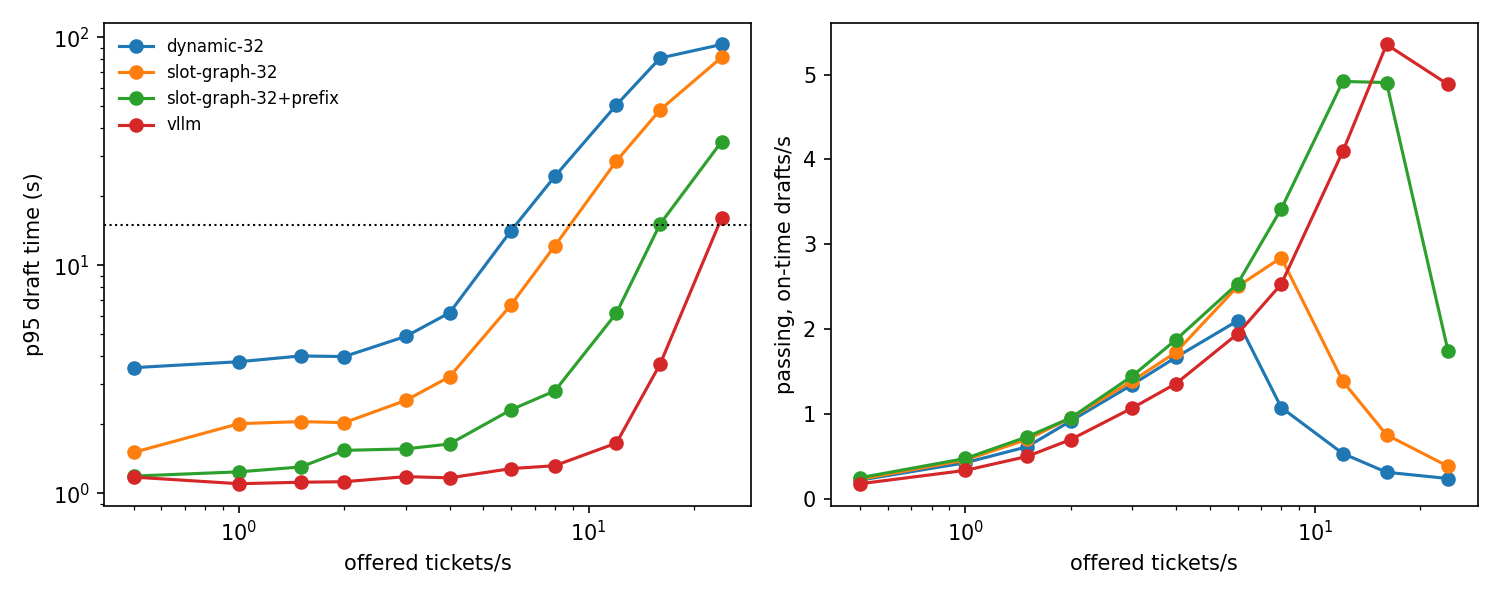
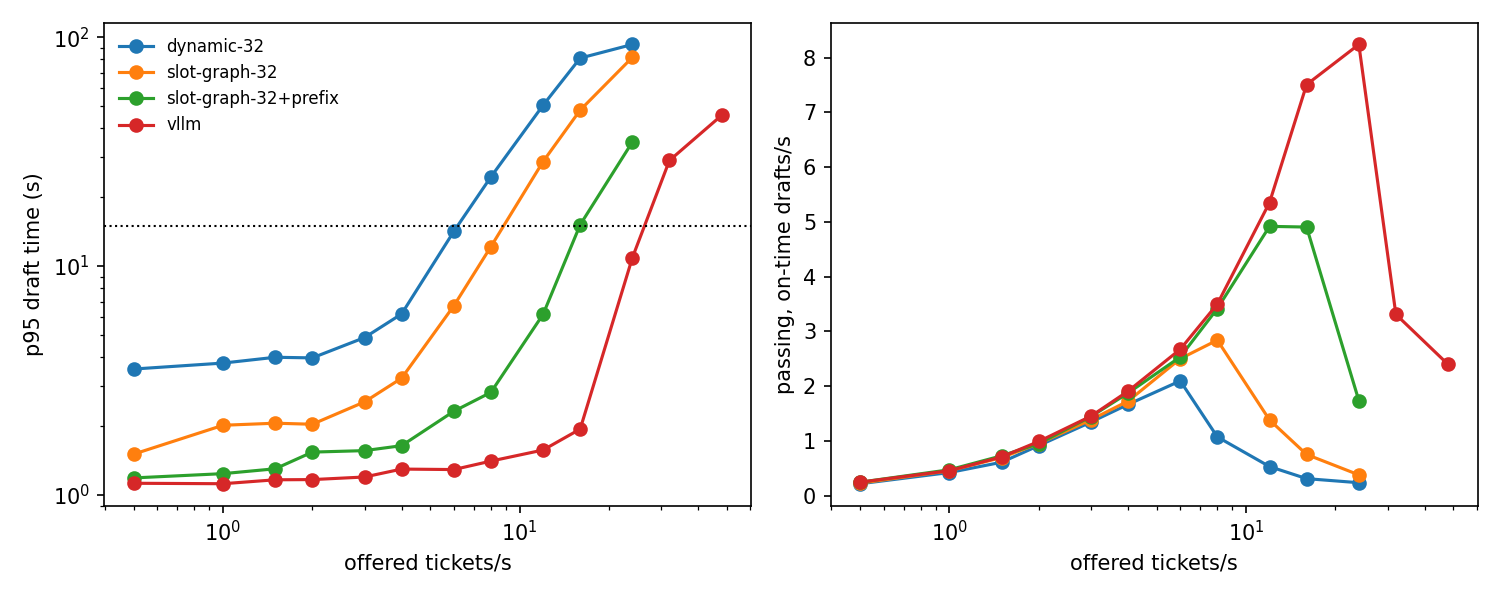
SupportDraft: final report with vLLM run 2 and 32/48 rates, archive run 1, document configurations

diff --git a/reports/SUPPORTDRAFT.md b/reports/SUPPORTDRAFT.md
@@ -20,16 +20,16 @@ Share of answerable tickets whose correct passage is among the top-k retrieved. 
 | dynamic-32 | 44% | 40% | 63% | 72% | 13% | 0% | 18% | 13% | 58% |
 | slot-graph-32 | 46% | 42% | 64% | 74% | 13% | 0% | 18% | 13% | 58% |
 | slot-graph-32+prefix | 49% | 47% | 67% | 77% | 10% | 0% | 17% | 13% | 58% |
-| vllm | 35% | 29% | 59% | 47% | 29% | 0% | 3% | 16% | 58% |
+| vllm | 49% | 47% | 66% | 78% | 10% | 0% | 18% | 11% | 58% |
 | baseline: always escalate | 21% | 0% | 0% | n/a | n/a | n/a | n/a | 100% | 100% |
 | baseline: quote top-1 passage (no LLM) | 81% | 96% | 96% | 96% | 0% | 0% | 96% | 0% | 25% |
 
-Measured at each backend's lowest offered rate. Greedy decoding makes quality nearly independent of load; the spread of the overall correct rate across offered rates was dynamic-32: 44%-45%, slot-graph-32: 44%-47%, slot-graph-32+prefix: 45%-49%, vllm: 33%-35%. The two baseline rows use no language model and are scored by the same checks: quoting the top retrieved passage already satisfies the rules on most answerable tickets, so the checks cannot separate a tailored reply from a copy-paste ('copied from passage' shows how much of each draft is verbatim source text). A language model adds value mainly through escalation recall and through answering the actual question, which these checks only partly capture. These are rule-based checks: they verify required facts, cited-source support, invented numbers, known-wrong values and escalation. They do not judge tone, completeness or subtle errors; use the human review sheet for that.
+Measured at each backend's lowest offered rate. Greedy decoding makes quality nearly independent of load; the spread of the overall correct rate across offered rates was dynamic-32: 44%-45%, slot-graph-32: 44%-47%, slot-graph-32+prefix: 45%-49%, vllm: 44%-49%. The two baseline rows use no language model and are scored by the same checks: quoting the top retrieved passage already satisfies the rules on most answerable tickets, so the checks cannot separate a tailored reply from a copy-paste ('copied from passage' shows how much of each draft is verbatim source text). A language model adds value mainly through escalation recall and through answering the actual question, which these checks only partly capture. These are rule-based checks: they verify required facts, cited-source support, invented numbers, known-wrong values and escalation. They do not judge tone, completeness or subtle errors; use the human review sheet for that.
 
 - `dynamic-32` outcomes: ok 25, missing_fact 14, bad_citation 7, over_escalated 6, missed_escalation 5
 - `slot-graph-32` outcomes: ok 26, missing_fact 13, bad_citation 7, over_escalated 6, missed_escalation 5
 - `slot-graph-32+prefix` outcomes: ok 28, missing_fact 12, bad_citation 6, over_escalated 6, missed_escalation 5
-- `vllm` outcomes: ok 20, missing_fact 15, bad_citation 10, over_escalated 7, missed_escalation 5
+- `vllm` outcomes: ok 28, missing_fact 13, bad_citation 6, over_escalated 5, missed_escalation 5
 
 Correct rate by ticket kind for `dynamic-32`: escalate 58% (n=12), hard 33% (n=30), terse 53% (n=15)
 
@@ -70,17 +70,19 @@ Correct rate by ticket kind for `dynamic-32`: escalate 58% (n=12), hard 33% (n=3
 | slot-graph-32+prefix | 12.00 | 399 | 0 | 2.25 | 6.16 | 100% | 46% | 4.92 |
 | slot-graph-32+prefix | 16.00 | 513 | 0 | 12.56 | 15.14 | 94% | 44% | 4.91 |
 | slot-graph-32+prefix | 24.00 | 741 | 0 | 32.51 | 34.83 | 32% | 15% | 1.74 |
-| vllm | 0.50 | 57 | 0 | 0.17 | 1.18 | 100% | 35% | 0.18 |
-| vllm | 1.00 | 57 | 0 | 0.06 | 1.10 | 100% | 33% | 0.33 |
-| vllm | 1.50 | 57 | 0 | 0.06 | 1.12 | 100% | 33% | 0.50 |
-| vllm | 2.00 | 114 | 0 | 0.06 | 1.12 | 100% | 33% | 0.70 |
-| vllm | 3.00 | 114 | 0 | 0.07 | 1.18 | 100% | 34% | 1.07 |
-| vllm | 4.00 | 171 | 0 | 0.07 | 1.17 | 100% | 33% | 1.36 |
-| vllm | 6.00 | 228 | 0 | 0.07 | 1.28 | 100% | 35% | 1.94 |
-| vllm | 8.00 | 285 | 0 | 0.08 | 1.32 | 100% | 34% | 2.53 |
-| vllm | 12.00 | 399 | 0 | 0.18 | 1.66 | 100% | 35% | 4.09 |
-| vllm | 16.00 | 513 | 0 | 2.49 | 3.68 | 100% | 35% | 5.36 |
-| vllm | 24.00 | 741 | 0 | 15.35 | 16.14 | 88% | 31% | 4.88 |
+| vllm | 0.50 | 57 | 0 | 0.14 | 1.13 | 100% | 49% | 0.25 |
+| vllm | 1.00 | 57 | 0 | 0.06 | 1.12 | 100% | 46% | 0.46 |
+| vllm | 1.50 | 57 | 0 | 0.06 | 1.17 | 100% | 47% | 0.71 |
+| vllm | 2.00 | 114 | 0 | 0.06 | 1.17 | 100% | 47% | 0.99 |
+| vllm | 3.00 | 114 | 0 | 0.07 | 1.20 | 100% | 46% | 1.45 |
+| vllm | 4.00 | 171 | 0 | 0.07 | 1.30 | 100% | 47% | 1.91 |
+| vllm | 6.00 | 228 | 0 | 0.08 | 1.29 | 100% | 47% | 2.67 |
+| vllm | 8.00 | 285 | 0 | 0.08 | 1.41 | 100% | 47% | 3.50 |
+| vllm | 12.00 | 399 | 0 | 0.10 | 1.57 | 100% | 46% | 5.35 |
+| vllm | 16.00 | 513 | 0 | 0.58 | 1.94 | 100% | 46% | 7.51 |
+| vllm | 24.00 | 741 | 0 | 10.10 | 10.88 | 100% | 46% | 8.24 |
+| vllm | 32.00 | 969 | 0 | 28.22 | 28.92 | 46% | 20% | 3.31 |
+| vllm | 48.00 | 1482 | 0 | 44.83 | 45.55 | 29% | 13% | 2.40 |
 
 ![supportdraft](figures/supportdraft.png)
 
@@ -93,7 +95,7 @@ ASSUMPTION: GPU price 0.35 USD/hour (set `results/processed/supportdraft_assumpt
 | dynamic-32 | 6 (next tested 8 failed) | 44% | 0.046 | 3600.000 | 2.660 | 0.014 |
 | slot-graph-32 | 8 (next tested 12 failed) | 45% | 0.034 | 4800.000 | 2.578 | 0.010 |
 | slot-graph-32+prefix | 12 (next tested 16 failed) | 46% | 0.020 | 7200.000 | 2.530 | 0.007 |
-| vllm | 16 (next tested 24 failed) | 35% | 0.018 | 9600.000 | 3.307 | 0.005 |
+| vllm | 24 (next tested 32 failed) | 46% | 0.012 | 14400.000 | 2.543 | 0.003 |
 
 - *saturated_usd_per_1k_passing* (MEASURED duration x ASSUMED price): GPU cost while the benchmark ran, per 1,000 passing, on-time drafts; assumes the GPU is fully busy.
 - *est_agents_supported*, *est_provisioned_usd_per_1k_passing*, *est_utilization* (ESTIMATE): assume 50 agents each requesting 6 drafts per hour for 10 service hours per day. The provisioned cost includes idle GPU time in the service window, so a lightly used deployment looks much more expensive per passing, on-time draft than the saturated figure suggests. Change the assumptions to match a real team.
@@ -141,7 +143,8 @@ Monthly value = tickets per month x share of drafts a person accepts x minutes s
 - **Human review is not independent.** One reviewer (the author) judged 30 drafts. For most of them, Claude, the assistant that helped build this project, suggested a verdict in the same session before the reviewer answered. Treat the agreement numbers as indicative, not as an independent check. The review covered the LLM drafts only, so it does not show whether generation beats the retrieval baseline for a person.
 - **Test-split hygiene.** The prompt was tuned on the dev split only. When the first test run was stopped, one partial result from the earlier prompt (dynamic-32 at 0.5 req/s, 21% correct) had been seen. The test numbers above come from a clean rerun with the final prompt. Retrieval stemming was added after looking at retrieval misses that included test tickets, so the test set is not fully untouched for the whole pipeline.
 - **Template copying.** In 7 of 13 escalation drafts at the lowest rate, the model repeated the example reason from the prompt word for word, so escalation reasons are often not tailored.
-- **Not yet shown:** that generation improves the workflow over retrieval alone, or any productivity gain. 'Passing & on time' means passing the rule-based checks and arriving within the latency objective; it is not a human judgment of usefulness. vLLM was run on this same ticket set and the same rates with the same prompts (separate environment, GPU memory fraction 0.5); its rows appear in the tables above. It is a different server stack, so differences include scheduler, kernels and memory settings, not one feature.
+- **Not yet shown:** that generation improves the workflow over retrieval alone, or any productivity gain. 'Passing & on time' means passing the rule-based checks and arriving within the latency objective; it is not a human judgment of usefulness.
+- vLLM was run on this same ticket set and rates with the same prompts (separate environment, GPU memory fraction 0.5). It is a different server stack, so differences include scheduler, kernels and memory settings, not one feature. Its sustainable rate is 24 req/s (32 req/s missed the objective).
 - Differences of a few points in correctness between engines (44% to 49%) are within run-to-run and fp16 noise; one run per point.
 
 ## Benchmark configuration history

diff --git a/README.md b/README.md
@@ -237,7 +237,7 @@ Draft quality (AUTOMATED), including two no-LLM baselines:
 | dynamic-32 | 44% | 40% | 13% | 58% | 13% |
 | slot-graph-32 | 46% | 42% | 13% | 58% | 13% |
 | slot-graph-32+prefix | 49% | 47% | 13% | 58% | 10% |
-| vllm | 35% | 29% | 16% | 58% | 29% |
+| vllm | 49% | 47% | 11% | 58% | 10% |
 | baseline: always escalate | 21% | 0% | 100% | 100% | n/a |
 | baseline: quote top-1 passage (no LLM) | 81% | 96% | 0% | 25% | 0% |
 
@@ -248,7 +248,7 @@ Serving capacity and cost (MEASURED duration x ASSUMED price):
 | dynamic-32 | 6 (next tested 8 failed) | 44% | 0.046 |
 | slot-graph-32 | 8 (next tested 12 failed) | 45% | 0.034 |
 | slot-graph-32+prefix | 12 (next tested 16 failed) | 46% | 0.020 |
-| vllm | 16 (next tested 24 failed) | 35% | 0.018 |
+| vllm | 24 (next tested 32 failed) | 46% | 0.012 |
 
 Full report with caveats: [reports/SUPPORTDRAFT.md](reports/SUPPORTDRAFT.md).
 
@@ -257,11 +257,12 @@ Full report with caveats: [reports/SUPPORTDRAFT.md](reports/SUPPORTDRAFT.md).
 - **Human review is not independent.** One reviewer (the author) judged 30 drafts. For most of them, Claude, the assistant that helped build this project, suggested a verdict in the same session before the reviewer answered. Treat the agreement numbers as indicative, not as an independent check. The review covered the LLM drafts only, so it does not show whether generation beats the retrieval baseline for a person.
 - **Test-split hygiene.** The prompt was tuned on the dev split only. When the first test run was stopped, one partial result from the earlier prompt (dynamic-32 at 0.5 req/s, 21% correct) had been seen. The test numbers above come from a clean rerun with the final prompt. Retrieval stemming was added after looking at retrieval misses that included test tickets, so the test set is not fully untouched for the whole pipeline.
 - **Template copying.** In 7 of 13 escalation drafts at the lowest rate, the model repeated the example reason from the prompt word for word, so escalation reasons are often not tailored.
-- **Not yet shown:** that generation improves the workflow over retrieval alone, or any productivity gain. 'Passing & on time' means passing the rule-based checks and arriving within the latency objective; it is not a human judgment of usefulness. vLLM was run on this same ticket set and the same rates with the same prompts (separate environment, GPU memory fraction 0.5); its rows appear in the tables above. It is a different server stack, so differences include scheduler, kernels and memory settings, not one feature.
+- **Not yet shown:** that generation improves the workflow over retrieval alone, or any productivity gain. 'Passing & on time' means passing the rule-based checks and arriving within the latency objective; it is not a human judgment of usefulness.
+- vLLM was run on this same ticket set and rates with the same prompts (separate environment, GPU memory fraction 0.5). It is a different server stack, so differences include scheduler, kernels and memory settings, not one feature. Its sustainable rate is 24 req/s (32 req/s missed the objective).
 - Differences of a few points in correctness between engines (44% to 49%) are within run-to-run and fp16 noise; one run per point.
-
 
 ## Benchmark configuration history
 
 Two vLLM runs were made; the second is authoritative (the first used the model's default sampling settings, so its quality was not comparable). See [SUPPORTDRAFT_VLLM_RUNS.md](reports/SUPPORTDRAFT_VLLM_RUNS.md) for both configurations and the evidence.
+
 <!-- SUPPORTDRAFT:END -->

diff --git a/reports/SUPPORTDRAFT_VLLM_RUNS.md b/reports/SUPPORTDRAFT_VLLM_RUNS.md
@@ -9,15 +9,13 @@ Two vLLM runs exist. **Run 2 is authoritative.** Run 1 is kept for transparency 
 | max-model-len / max-num-seqs | 4096 / 16 | same |
 | gpu-memory-utilization | 0.5 | 0.5 |
 | generation config | **model default** (`--generation-config` not set, vLLM loads the model's `generation_config.json`) | **`--generation-config vllm`** (vLLM defaults; request sets temperature 0) |
-| split / rates | test / [0.5, 1, 1.5, 2, 3, 4, 6, 8, 12, 16, 24] | same |
+| split / rates | test / [0.5, 1, 1.5, 2, 3, 4, 6, 8, 12, 16, 24] | test / [0.5, 1, 1.5, 2, 3, 4, 6, 8, 12, 16, 24] + 32, 48 |
 | prompt | final (e8c0b3569a) | same |
-| passing-and-on-time rate | 31% to 35% | 46% to 49% |
+| passing-and-on-time rate | 31% to 35% | 46% to 49% (up to 24/s) |
 | where | commit `57f0305`, archived in `results/supportdraft/archive/vllm_run1_default_generation_config/` | current `results/` files and the report tables |
 
 ## Why run 2 is authoritative
 The other three engines decode greedily with no extra sampling settings. Run 1 let vLLM apply the model's own default generation settings, so the decoding differed from the other engines and its quality numbers were not comparable. Run 2 removes that difference, and correctness returned to the same 44% to 49% range as the other engines.
 
 ## What is established and what is inferred
-Established: adding `--generation-config vllm` changed correctness from about 33% to about 35% up to 46% to 49%, with the same model, prompt and ticket set. Inferred, not directly logged: that the cause is the model's default sampling settings (for Qwen2.5 these include a repetition penalty, which works against drafts that repeat `[Pxx]` citations). The applied defaults were not read from the server logs.
-
-Serving latency and capacity in run 1 were similar in shape but the run 1 timings are not used. Run 1 also did not isolate whether output length differed.
+Established: adding `--generation-config vllm` raised correctness from about 33% to about 35% up to 46% to 49%, with the same model, prompt and ticket set. Inferred, not directly logged: that the cause is the model's default sampling settings (for Qwen2.5 these include a repetition penalty, which works against drafts that repeat `[Pxx]` citations). The applied defaults were not read from the server logs. Run 1 timings are not used.
